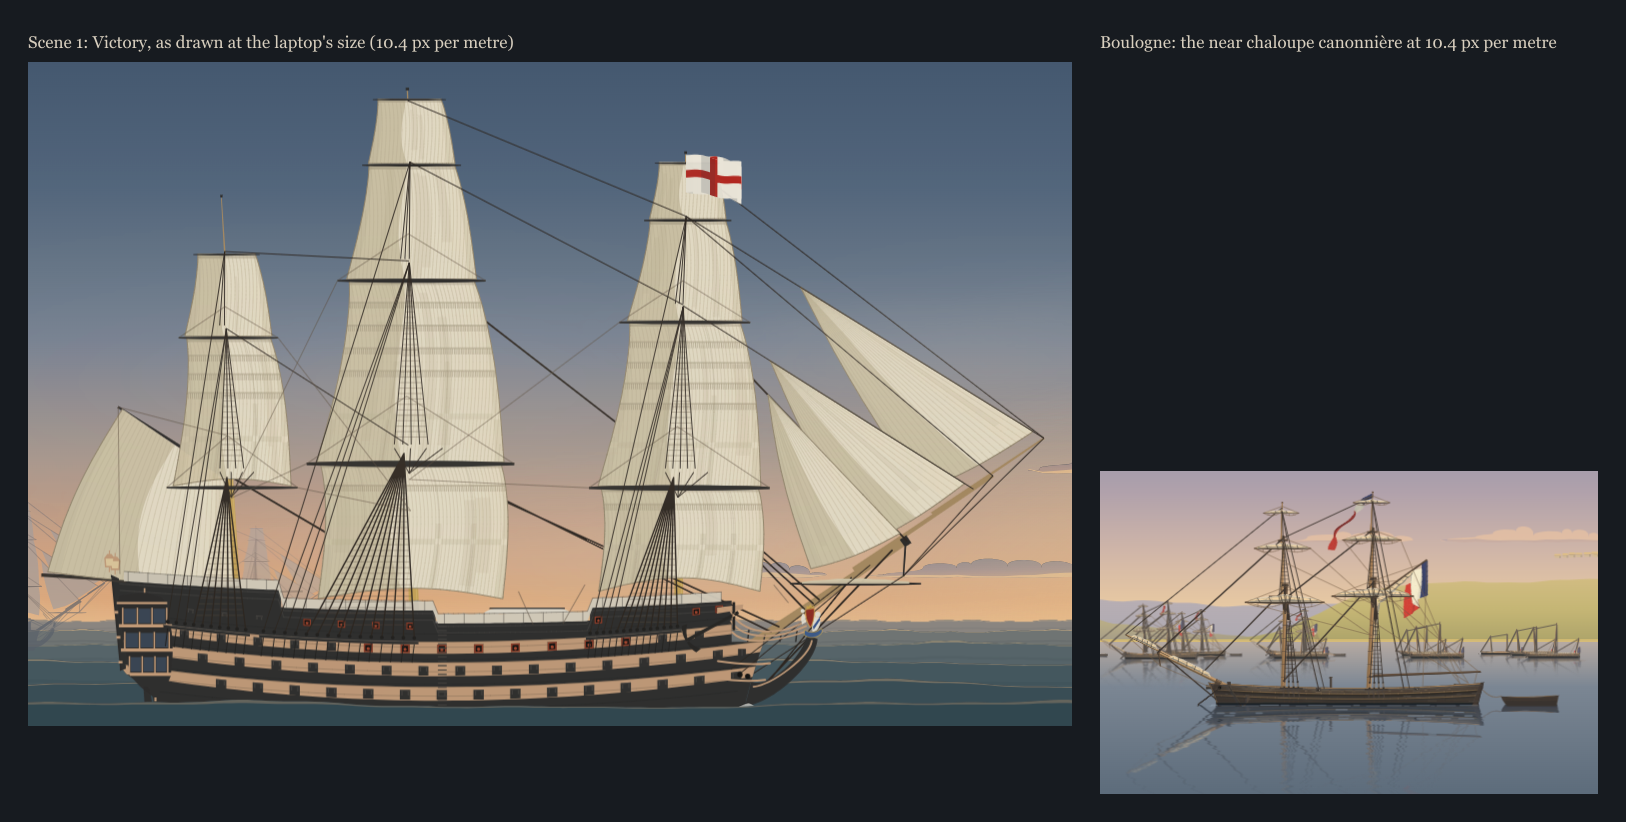
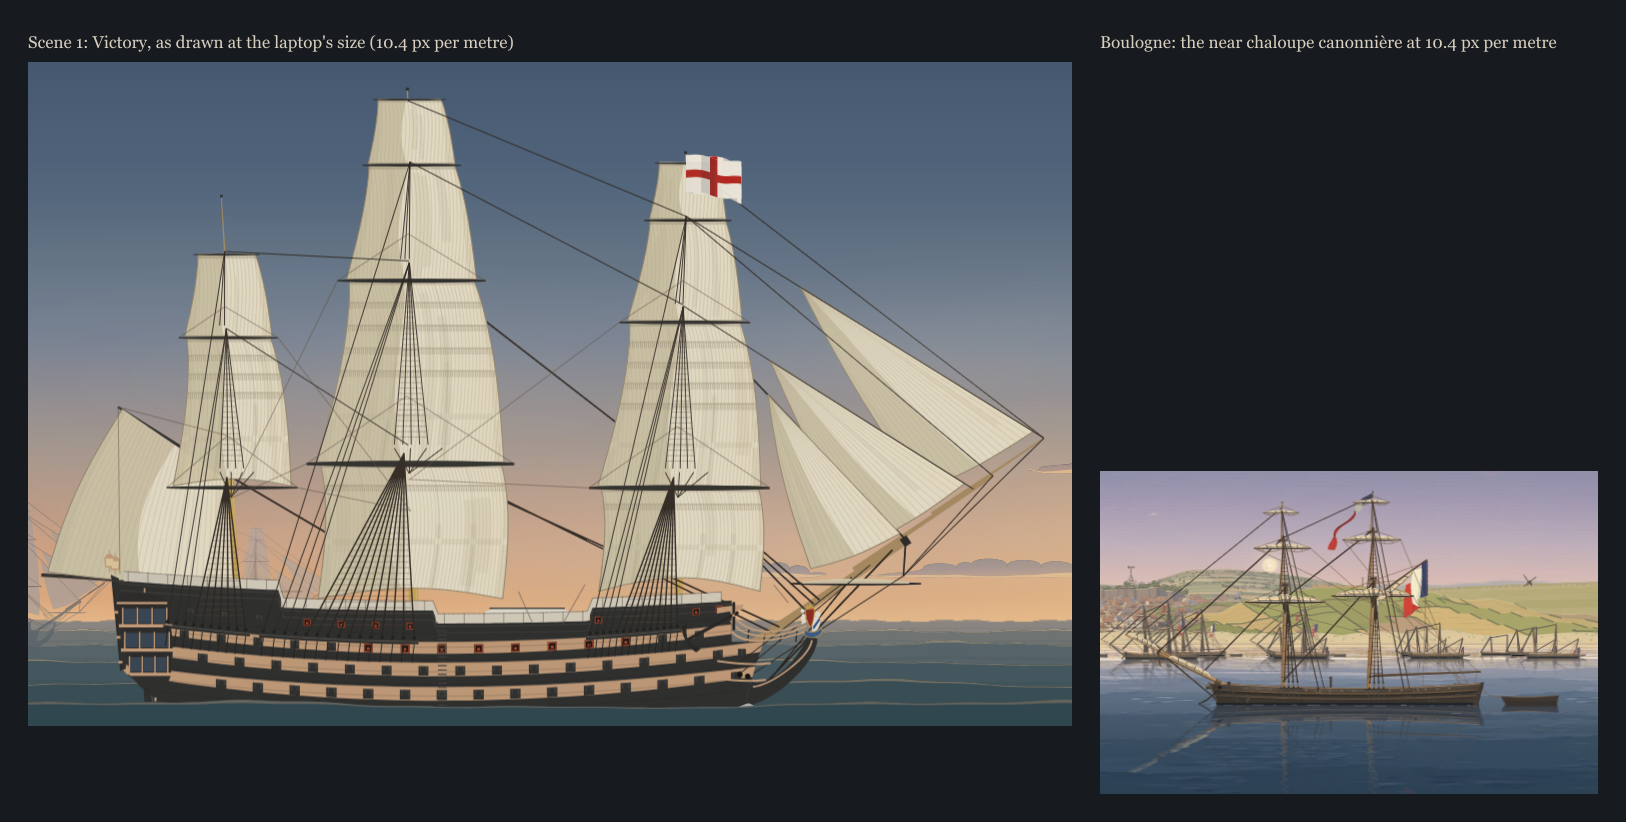
Boulogne's owner points before and after (production build of 7b4a6c9) beside his screenshots, the after frames, the chaloupe beside Victory refreshed; decisions of the shore, the water, the flags, the moon and the smoke

Changed region(s): [[0.6765, 0.6387, 0.984, 0.9732], [0.7995, 0.6387, 0.8303, 0.6691]]

diff --git a/docs/decisions.md b/docs/decisions.md
@@ -809,3 +809,8 @@ His second look is in the brief ("Second look, 13 November"); these are the deci
 - **The transition coloured as one print** (`interludes.ts`, `TRANSITION`): land 0.665–0.8, sky 0.67–0.81 (its share eased in, `** 1.5`), water 0.675–0.825, craft 0.69–0.86; a light wash over the whole sheet first, the sky's blue last, so no frame shows a finished sky over a paper sea.
 - **The sky** (the sky painter's passes): the clouds lit by the sun of 18:33 nearly square-on from behind the eye (`[-0.14, 0.12, 0.98]` for the fine lumps; the big masses modelled by the same sun read a little more from the side, `[-0.26, 0.2, 0.94]`, at the masses' scale only, so no lump carries a crescent of shade); no cast shadows, crevices darkened only between masses; values in a few broad painted steps with wandering borders, edges lost and found. **Licence:** "undersides lit by the low sun" painted as a gold-apricot glow on the lower faces by form and height above the base, a soft bright lip along the base's front edge and the flat base seen from below as a cool lilac shelf (at 7° the flat base itself takes no direct light). The cumulus congestus over Outreau raised (base about 12° up, x 330–840 layer units, about 6–7 km off) so the left camp's smoke rises under it against open sky; the cloud over the left cliffs (bug 6's "tooth") removed, so the right camp's smoke has open sky too. The mid sky: stratocumulus at one height in perspective (a few large cells high and near with their undersides, a far strand of flat pieces low over the cliffs and the harbour mouth, short of the moon), one family with scene 1's strands. Cirrus as four fibrous veils fanning toward one far point under the horizon at the right (about x 4200, y −80). The anti-solar glow at x 140, y −120 (8° right of the axis, 7° under the horizon at 18:33). The engraved sky: long tapered lines graded from about 6.5 units apart at the top to 17 near the horizon, lighter than any land hatching; the engraved clouds: contours along the form in the shade only, a broken outline on the shaded side.
 - **The town** (the town painter's passes): its sun at 18:33 (azimuth 286.2°, 7° up) in `town/kit.ts`, `houses.ts`, `harbour/basin.ts`. **Licence on Mont Lambert's skyline:** at VEX 2.5 the hills drew over the belfry, which BUILD only doubles; west of the summit the skyline falls into a saddle (y 67.5 at x 81) so the belfry's octagon, spire and telegraph stand against the sky, as history has it; from x 200 it is unchanged (the moon's seat, y 83.6 at x 248). The lower town about three quarters stone, brown or grey walls, the pale plaster and limewash fronts on the quay row and the main streets; roofs about 85 % red-brown tile, 15 % slate (a reading of "mostly dark stone, some new pale fronts", Low–Medium). Saint-Nicolas: a square west tower of 23 m with a 12 m slate broach spire (form not documented beyond "a steeple of after 1688"); the second small spire of the 1804 views as a chapel's flèche at (560, 40), its place the painter's. The flotilla's store in stone with tile roofs in three spans (material undocumented). The château as four low crenellated drums of grey stone just over the north-west wall; the Porte des Dunes two broad round towers, unroofed (no source on 1805 roofs). The belfry's square tower plain coursed stone with louvred bell openings and four corner turrets with small pointed caps (the caps' form a licence). The pierhead battery: a coursed stone lower tier with five ports and a tarred timber upper tier with five embrasures, on a pile platform as broad as itself (materials a licence); the harbour light a white boarded tapering timber tower with a glazed lantern (after Lewis's "Light House"); the wooden fort in worn dull red on tarred piles (history only hints at red); the rampart trees of mixed sizes with gaps (already a licence).
+- **The shore** (the shore painter's passes, `s27-critique-shore.md`): **licence on the right camp's plateau:** its rise drawn RISE = 3 times on top of VEX (it was 4; at 2 the plateau projects level with the brow and no fields would show): the history's thin dense band of gables and roofs over the cliff, the camp in its first 0.52 km behind the Tour d'Odre rising to 1.0 km toward La Crèche (`terrain.ts`, `campDepth`), fields and hedges beyond it to the skyline. The camp's layout (an inference from its plan in the history): rows in close pairs 16 m apart, an officers' whitewashed row behind every few lines, kitchens behind the last rows, battalion blocks 90–170 m long with shared cross streets 25–38 m wide; huts gable-on to the street (BUILD 2: half-width 1.9–2.25 m, walls 1.15–1.4 m, ridge 2.9–3.3 m, sunk 0.45 m), no chimneys on men's huts (none in the sources), a small stack on the kitchens (an inference). After the merge (mine): the gables of clay daub under a heavier hood of thatch with a dark band under the eaves, so a row reads as huts, not as the tents the brief forbids; far huts engraved as single strokes, the left camp's line on the brow so throughout (outlined gables along a skyline read as a zigzag). The left camp: one line 24 m behind the Outreau brow and a second at 78 m, the brow drawn convex by 0.8 m so the huts sink behind it. The kitchens set 9 units (north) and 7 (south) under the painted skyline at their x, so the smoke rises from behind the crests. The cliff's units (a reading of "grey, brown, yellow and reddish beds"): a clay foot, a rusty sandstone, shale, a thick golden sandstone in blocks, shale, sandstone, marl, a pale limestone and a rubbly cap, dipping gently north; its landslip bays, slump scars and erosion bites are the painter's inventions for erosion, not documented places. The ruined English bastions of 1544 round the Tour d'Odre as low brick stumps on an inferred five-sided trace. The pavilions end-on (axis east–west, the rotunda west toward the roads; Napoleon's 32.5 × 7.3 m with a 9.7 m rotunda, the admiral's 22 × 5.5 m with 7 m). The signal mast with a topmast and two yards and hoists, no semaphore arms (1806). The fields an inferred bent grid of about 150 × 95 m askew to the contours, in stubble, pasture, fallow and rough grazing.
+- **The water** (the water painter's passes): the sea ahead mirrors the cool eastern sky (wavelet backs pearl, warm only far off, faces blue, the body deepening to slate near the eye); the near water calm and low in contrast so the craft's reflections carry it, as scene 1's restraint does. Static slick plates, one per strip just in front of it (colour only, half resolution), aperiodic lanes leaning faintly toward the harbour mouth; the strips' periods all different (331–1129 units), so no shape repeats across the frame (the whole painting's canvases about 91 MB in the studio). The engraved water in tapered burin lines spaced about 2.5 / (1 − L) by the colour's relative luminance. The wet strand mirrors the land as crisp vertical streaks in the land's colours by x (the other plates cannot be sampled while painting); a warm glow in front of the town as the brightest land light at the centre. Under the caption the near light marks are capped so the water's brightest pixel stays at or under 0.13 (0.107–0.124 measured).
+- **One wind and one sun for the flags:** every flag ashore (the batteries', the pierhead battery's, the fort's) is the craft's cloth on a staff (`staffFlag`), hanging heavily toward the wind's vanishing point; the flags lit by the sun of 18:33 (azimuth 286.2°, 7°) as the town and the sky are. The shore's faces still take the sun at azimuth 294° (8° apart: left as it is).
+- **The moon and the drift:** at x 248 the moon stands between the near chaloupe's masts for most of the hold; for its last tenth her ensign passes over it. The ensign sweeps more than 200 px through the drift, so any place would be covered at some moment; the computed place is kept.
+- **The smoke's look:** a warm light grey (`mix(PALETTE.cloud.shade, #7d6f66, 0.5)`), dense at once at the fire (the fires sit under the crests), widening and spreading flat toward the top.

diff --git a/docs/screenshots/scene-02/boulogne-sea/compare/README.md b/docs/screenshots/scene-02/boulogne-sea/compare/README.md
@@ -1,0 +1,13 @@
+# Boulogne from the sea: the owner's points, before and after
+
+Each image: the owner's screenshot on the left (`../owner/`), the same part of the production build of session 27 (commit `7b4a6c9`, 1280×720 at 1.5) on the right. The after frames whole are in `../after/` (`hold-colour.png` at the hold's middle, `dive-engraving.png` the engraving on the dive, `dive-colour-coming.png` colour coming in, `rise-engraving.png` on the rise). His first screenshot is session 24's painting, seen from an earlier eye, so its regions match the after frames only roughly.
+
+- Bug 1, the sideways scroll bar: `01-whole.png` (his frame shows it; checked with classic scroll bars, `scripts/dev/hscroll.mjs`: the document is as wide as the window at the top, at the dive and at the hold).
+- Bugs 2 and 3, the rigging and the cut-out hulls: `01-near-craft.png`, and `../craft-vs-victory.png` (the near chaloupe beside scene 1's Victory at 10.4 px per metre).
+- Bug 4, the camp's rectangle: `01-left-camp-cliffs.png`, `02-left-camp-cliffs.png`.
+- Bug 5, the stripes on the cliffs: `01-left-camp-cliffs.png`.
+- Bug 6, the tooth and the clip-art clouds: `01-sky-left.png`, `02-sky-left.png`.
+- Bug 7, the title's smudge: `01-title.png` (over the painting no scrim; the sky under the title at relative luminance 0.078–0.087).
+- Bug 8, the grey-blue cubes: `01-town.png`.
+- Remark 9, the engraving stage: `03-whole.png`, `03-middle-band.png`, `03-left-camp-cliffs.png`, `03-near-craft.png`.
+- Remark 10, the huts' horizon: `02-left-camp-cliffs.png`, `02-right-heights.png`.
